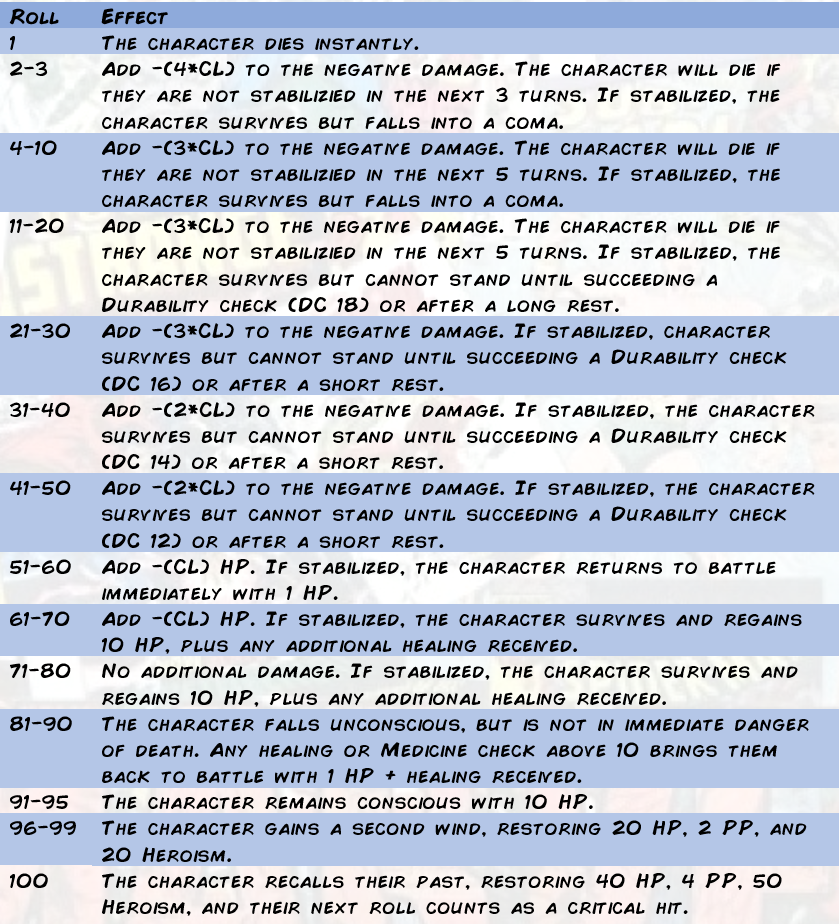
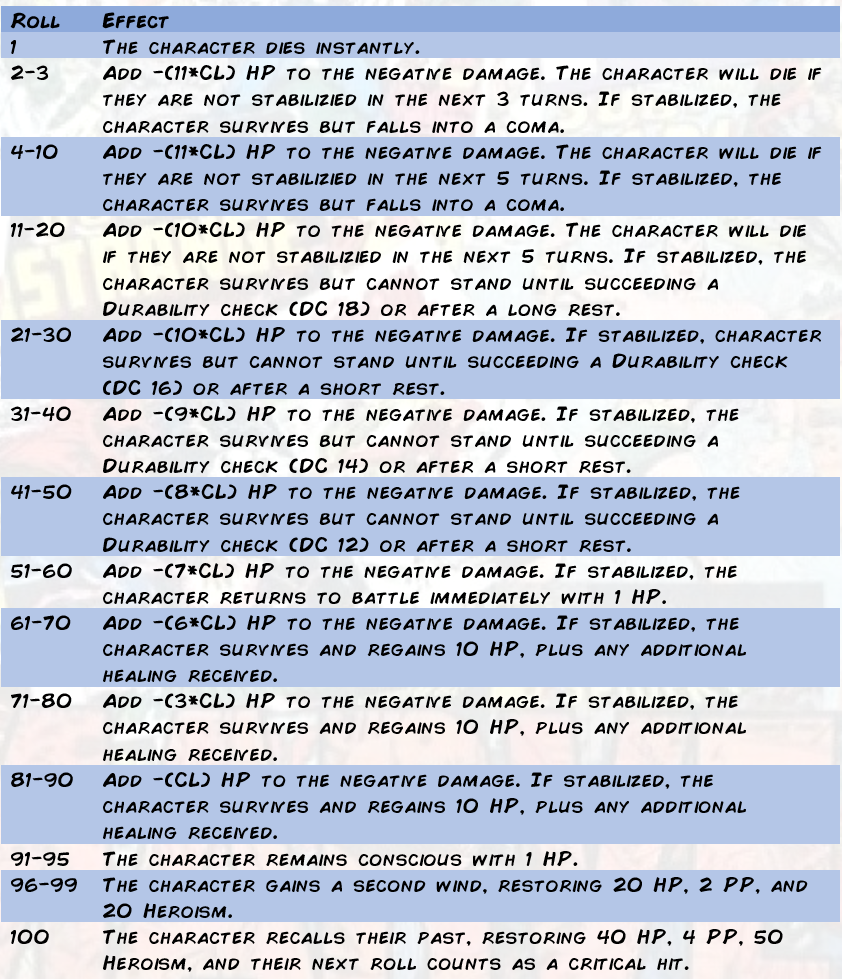
New Death Rules

diff --git a/src/pages/combat/Combat.jsx b/src/pages/combat/Combat.jsx
@@ -14,8 +14,11 @@ import Critical from '../../assets/images/combat/Critical.PNG'
 import CombatImage from '../../assets/images/combat/conbat.png'
 import Failure from '../../assets/images/combat/Failure.PNG'
 import Death from '../../assets/images/combat/death.png'
+import Durability from '../../assets/images/combat/durability.png'
 import elektra2 from '../../assets/images/combat/Elektra-death.avif'
 import Elektra from '../../assets/images/combat/elektradeath.jpg'
+import Medicine from '../../assets/images/combat/medicine.png'
+import Negative from '../../assets/images/combat/negative.png'
 import Gwen from '../../assets/images/combat/spiderfailure.png'
 import PowersDesc from '../../assets/images/combat/Powers.PNG'
 import PowerExample from '../../assets/images/combat/PowerExample.PNG'
@@ -718,23 +721,45 @@ const Combat = () => {
         </Paragraph>
         <div className='flex'>
           <div className='sm:px-10'>
-
             <p className='text-gray-700 text-left'>
-              • On a failure (10 or less), the character’s HP is reduced by 1d8 + Durability.
+              • CL = Current Level
             </p>
             <p className='text-gray-700 text-left'>
-              • On a success, the character’s HP increases by 1d8 + Durability.
+              • On a failure (10 or less), the character’s HP is reduced by 10 + (5*CL) + Durability.
+            </p>
+            <p className='text-gray-700 text-left'>
+              • On a success, the character’s HP increases by 10 + (5*CL) + Durability.
             </p>
           </div>
         </div>
         <Paragraph className=''>
+          This table shows the amount of HP that a character may increase or reduce depending on their level and their willpower check:
+        </Paragraph>
+        <div className='flex justify-center'>
+          {' '}
+          {/* Added a flex container for centering */}
+          <LazyImage2
+            className='max-w-full lg:max-w-7xl rounded-lg shadow-md hover:shadow-lg transition-all duration-300 my-6'
+            src={Durability}
+            alt='Durability Table'
+          />
+        </div>
+        <Paragraph className=''>
           The character is no longer dying once their HP rises above 0.
-          However, they die permanently if their HP drops below the negative value equal to half of their maximum HP.
+          However, they die permanently if their HP drops below -(40 + 10*CL).
         </Paragraph>
         <Paragraph className=''>
-          <b>Example: </b>
-          If the character’s maximum HP is 120, they die if their HP reaches -60.
+          The following table shows the Negative HP that could kill a character depending on their level:
         </Paragraph>
+        <div className='flex justify-center'>
+          {' '}
+          {/* Added a flex container for centering */}
+          <LazyImage2
+            className='max-w-full lg:max-w-7xl rounded-lg shadow-md hover:shadow-lg transition-all duration-300 my-6'
+            src={Negative}
+            alt='Negative HP Table'
+          />
+        </div>
         <Title>
           Assistance from Other Characters
         </Title>
@@ -745,31 +770,34 @@ const Combat = () => {
           <div className='sm:px-10'>
 
             <p className='text-gray-700 text-left'>
-              • <b>First Aid:</b> A successful check restores 1d8 + First Aid HP.
+              • <b>First Aid:</b> A successful check restores 15 + (5*CL) + First Aid HP.
             </p>
             <p className='text-gray-700 text-left'>
-              • <b>Medicine</b> A successful check restores 2d8 + Medicine HP.
+              • <b>Medicine</b> A successful check restores 30 + (8*CL) + Medicine HP.
             </p>
             <p className='text-gray-700 text-left'>
               • Other healing abilities or powers can be added normally.
             </p>
           </div>
         </div>
-
+        <Paragraph className=''>
+          This table shows the amount of healing made by a succesful Medicine or First Aid check depending on the level:
+        </Paragraph>
+        <div className='flex justify-center'>
+          {' '}
+          {/* Added a flex container for centering */}
+          <LazyImage2
+            className='max-w-full lg:max-w-7xl rounded-lg shadow-md hover:shadow-lg transition-all duration-300 my-6'
+            src={Medicine}
+            alt='Medicine Check Table'
+          />
+        </div>
         <Title>
           The Death Table
         </Title>
         <Paragraph className=''>
           This table shows the possible effects of the d100 Survival Check:
         </Paragraph>
-        <div className='flex'>
-          <div className='sm:px-10'>
-
-            <p className='text-gray-700 text-left'>
-              • CL = Current Level
-            </p>
-          </div>
-        </div>
         <div className='flex justify-center'>
           {' '}
           {/* Added a flex container for centering */}
